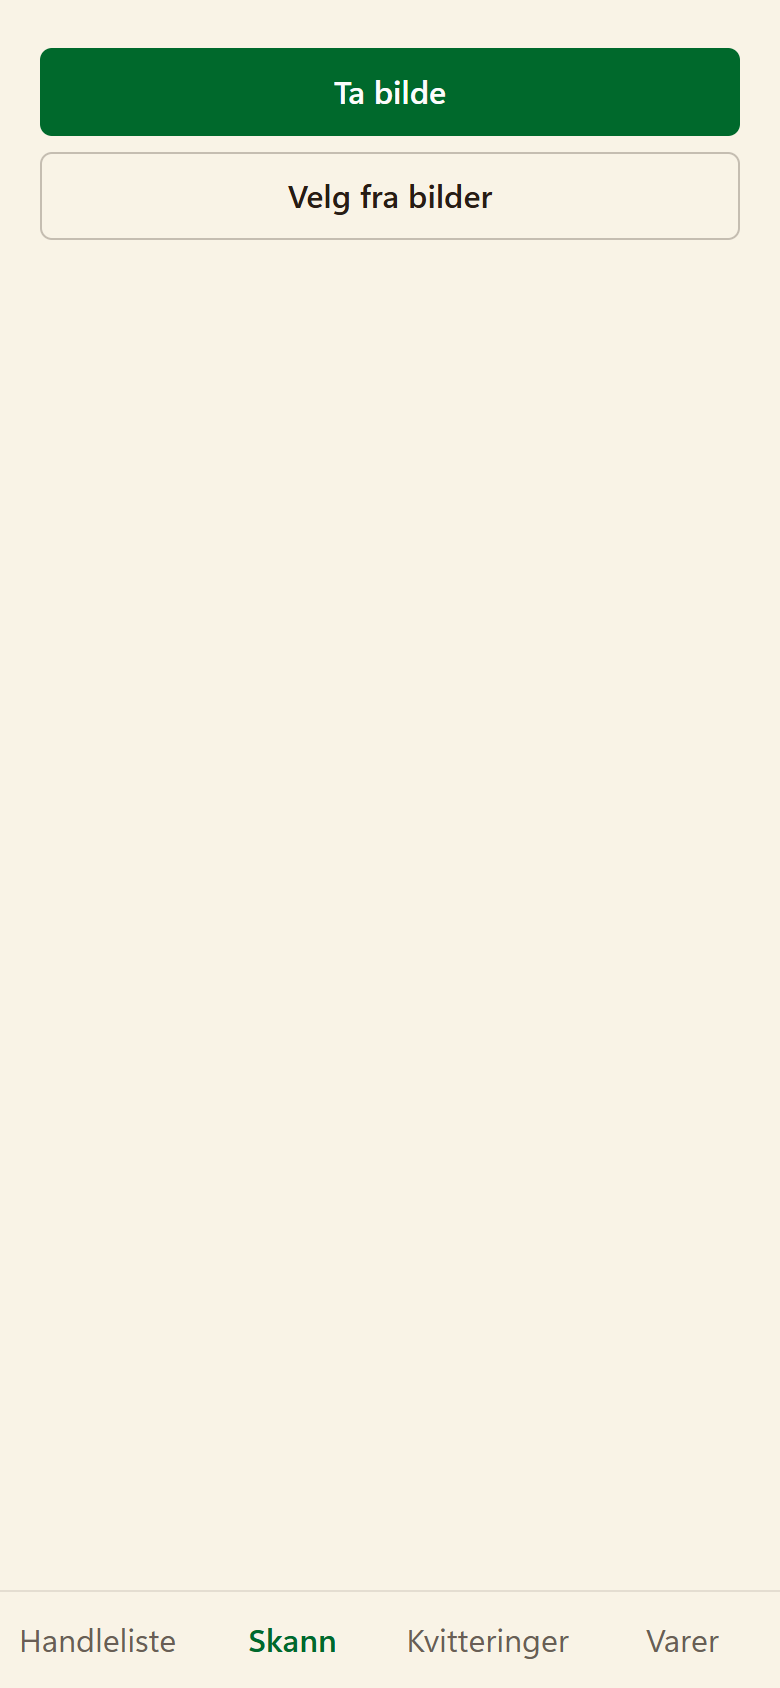
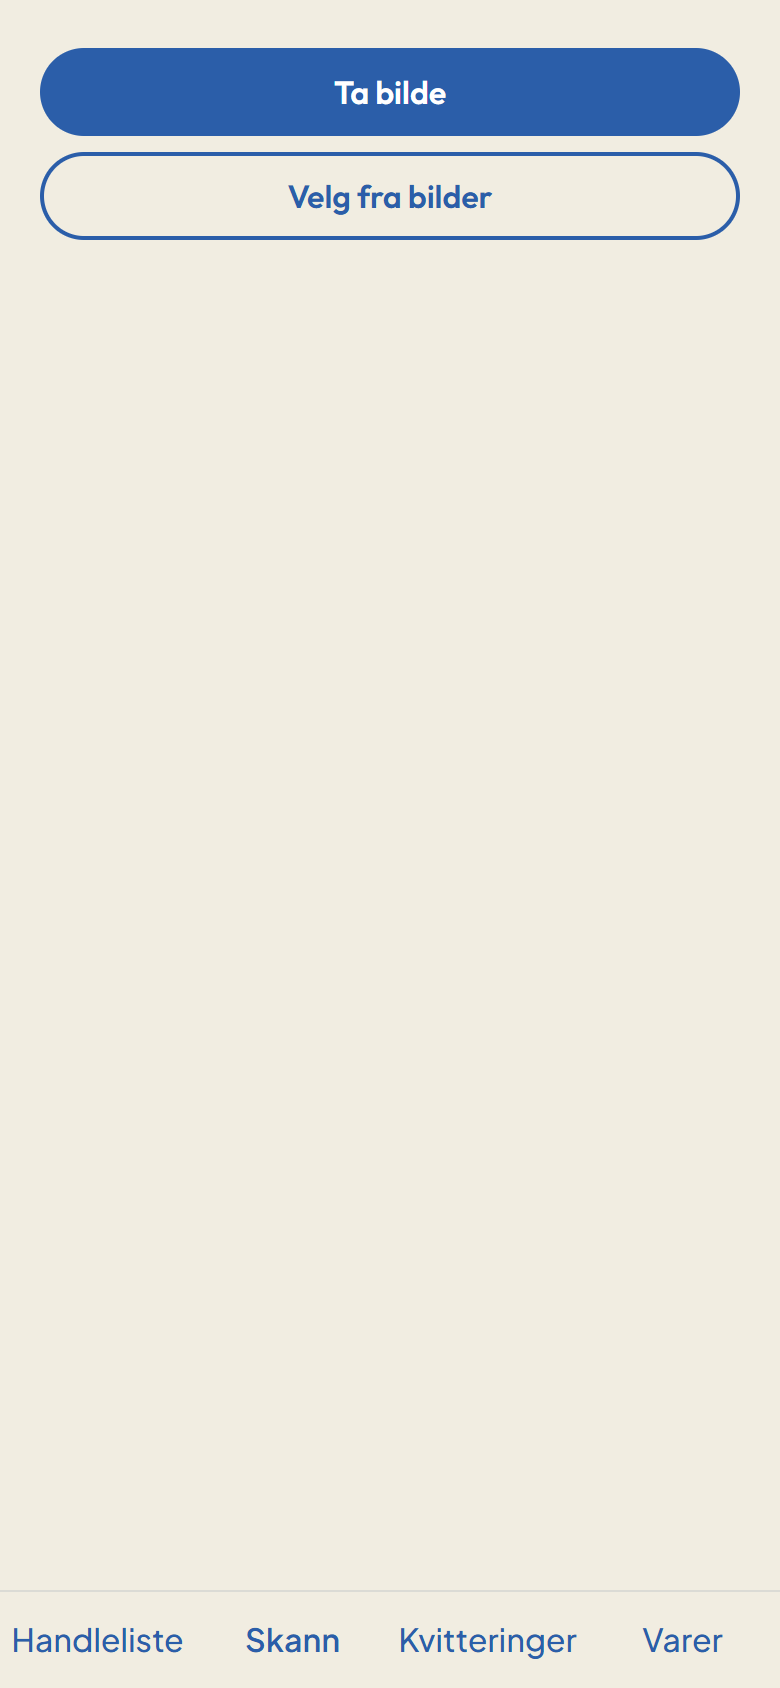
feat(client): brand palette and self-hosted type (ADR-0020)
Blue ink on a cream ground with one blush block and a brick red kept for
destructive actions, from the two brand sheets Ruben gave as direction.
Outfit for display and Plus Jakarta Sans for body, pinned through npm and
declared face by face so only the latin subset ships (59 kB total, no CDN).
Rounded faces were tried first and rejected as too Comic Sans.

Buttons become pills, receipt warnings become one blush block, and the
disclosure summaries keep their open/closed marker.

Claude-Session: https://claude.ai/code/session_017sKcnZKMqRn8yi4EAXy7qc

diff --git a/src/client/styles.css b/src/client/styles.css
@@ -1,15 +1,35 @@
 @import 'tailwindcss';
 
 /*
- * Design tokens. One type ratio, one ground colour, one accent; every size and colour in the
- * client comes from here (see .claude/skills/subtractive-design/SKILL.md).
+ * Self-hosted, latin subset only: the packages also ship Hebrew, Cyrillic and latin-ext, which
+ * this app never renders. Declaring the faces here instead of importing the package stylesheets
+ * keeps those files out of the build entirely (ADR-0020).
+ */
+@font-face {
+  font-family: 'Outfit Variable';
+  font-style: normal;
+  font-display: swap;
+  font-weight: 100 900;
+  src: url('@fontsource-variable/outfit/files/outfit-latin-wght-normal.woff2')
+    format('woff2-variations');
+}
+
+@font-face {
+  font-family: 'Jakarta Variable';
+  font-style: normal;
+  font-display: swap;
+  font-weight: 200 800;
+  src: url('@fontsource-variable/plus-jakarta-sans/files/plus-jakarta-sans-latin-wght-normal.woff2')
+    format('woff2-variations');
+}
+
+/*
+ * Design tokens. One type ratio, one ground, one accent; every size and colour in the client
+ * comes from here (ADR-0020, and .claude/skills/subtractive-design/SKILL.md).
  */
 @theme {
-  --font-sans:
-    'Segoe UI Variable Text', 'Segoe UI', -apple-system, BlinkMacSystemFont, system-ui, Roboto,
-    sans-serif;
-  --font-display:
-    'Iowan Old Style', 'Palatino Linotype', Palatino, 'Book Antiqua', Georgia, ui-serif, serif;
+  --font-sans: 'Jakarta Variable', 'Segoe UI', system-ui, sans-serif;
+  --font-display: 'Outfit Variable', 'Segoe UI', system-ui, sans-serif;
 
   /* Type scale: minor third (1.25) from a 16 px body. Three sizes in use: meta, body, display. */
   --text-meta: 0.8rem;
@@ -18,18 +38,20 @@
   --text-body--line-height: 1.5rem;
   --text-display: 2.441rem;
   --text-display--line-height: 1.05;
-  --text-display--letter-spacing: -0.015em;
+  --text-display--letter-spacing: -0.02em;
 
-  /* Palette: receipt paper, ink, one green accent. */
-  --color-paper: oklch(96.5% 0.018 85);
-  --color-field: oklch(99.4% 0.004 85);
-  --color-ink: oklch(24% 0.022 60);
-  --color-ink-muted: oklch(49% 0.02 60);
-  --color-ink-faint: oklch(78% 0.014 60);
-  --color-accent: oklch(45% 0.135 152);
-  --color-accent-ink: oklch(99% 0 0);
-  --color-danger: oklch(50% 0.19 28);
-  --color-warn: oklch(50% 0.12 65);
+  /* Palette: cream ground, blue ink and accent, blush for the blocks that need the eye, one
+   * brick red kept apart for destructive actions only. */
+  --color-paper: #f1ede1;
+  --color-field: #ffffff;
+  --color-ink: #1e3f72;
+  --color-ink-muted: #2b5ea9;
+  --color-ink-faint: #b9cbe4;
+  --color-shell: #b9cbe4;
+  --color-accent: #2b5ea9;
+  --color-accent-ink: #ffffff;
+  --color-blush: #eba9b5;
+  --color-danger: #ab3730;
 }
 
 @layer base {
@@ -38,12 +60,13 @@
     color: var(--color-ink);
     font-family: var(--font-sans);
     font-size: var(--text-body);
+    font-weight: 500;
     line-height: var(--text-body--line-height);
     -webkit-tap-highlight-color: transparent;
   }
 
   :focus-visible {
-    outline: 2px solid var(--color-accent);
+    outline: 3px solid var(--color-accent);
     outline-offset: 2px;
   }
 
@@ -64,41 +87,50 @@
 
   /* Type */
   .page-title {
-    @apply font-display text-display font-bold text-ink;
+    @apply font-display text-display text-accent font-semibold;
   }
   .eyebrow {
-    @apply text-meta font-semibold tracking-wide text-ink-muted uppercase;
+    @apply font-display text-meta text-ink-muted font-semibold tracking-widest uppercase;
   }
   .meta {
-    @apply text-meta text-ink-muted;
+    @apply text-meta text-ink-muted font-normal;
+  }
+  /* A summary stays `display: list-item` so the browser keeps drawing its open/closed marker;
+   * `flex` here would silently remove it. */
+  .disclosure {
+    @apply font-display text-accent min-h-11 cursor-pointer py-2 font-semibold;
   }
   .label {
-    @apply text-meta font-semibold text-ink;
+    @apply text-meta text-ink font-bold;
   }
   .link {
-    @apply text-accent underline decoration-accent/40 underline-offset-2;
+    @apply text-accent font-semibold underline decoration-2 underline-offset-2;
   }
   .chip {
-    @apply text-meta text-ink-muted whitespace-nowrap;
+    @apply text-meta text-ink-muted font-semibold whitespace-nowrap;
   }
   /* Inline separator, kept out of the text nodes so each value stays its own element. */
   .sep::before {
     content: '·';
     @apply mx-1.5;
   }
+  /* A flat block of colour, used where something genuinely needs the eye: receipt warnings. */
+  .note {
+    @apply bg-blush text-ink rounded-3xl px-4 py-3 font-semibold;
+  }
 
   /* Controls */
   .field {
-    @apply min-h-11 w-full rounded-md border border-ink-faint bg-field px-3 py-2 text-ink;
+    @apply border-shell bg-field text-ink min-h-11 w-full rounded-2xl border-2 px-4 py-2;
   }
   .btn {
-    @apply inline-flex min-h-11 items-center justify-center gap-2 rounded-md px-4 py-2 font-semibold disabled:opacity-50;
+    @apply font-display inline-flex min-h-11 items-center justify-center gap-2 rounded-full px-5 py-2 font-semibold disabled:opacity-50;
   }
   .btn-primary {
     @apply bg-accent text-accent-ink;
   }
   .btn-secondary {
-    @apply border border-ink/25 text-ink;
+    @apply border-accent text-accent border-2;
   }
   .btn-quiet {
     @apply text-ink-muted;
@@ -107,9 +139,9 @@
     @apply text-danger;
   }
   .option {
-    @apply min-h-11 w-full px-3 py-2 text-left hover:bg-ink/5 disabled:opacity-50;
+    @apply hover:bg-shell/40 min-h-11 w-full rounded-xl px-4 py-2 text-left disabled:opacity-50;
   }
   .popover {
-    @apply absolute z-10 mt-1 w-full rounded-md bg-field shadow-lg ring-1 ring-ink/10;
+    @apply bg-field ring-shell absolute z-10 mt-1 w-full rounded-2xl p-1 shadow-lg ring-2;
   }
 }

diff --git a/src/client/pages/ReceiptsPage.tsx b/src/client/pages/ReceiptsPage.tsx
@@ -205,9 +205,7 @@ function StatsAndHistory() {
 
   return (
     <details onToggle={(event) => setIsOpen(event.currentTarget.open)}>
-      <summary className="flex min-h-11 cursor-pointer items-center gap-2 font-semibold text-accent">
-        Statistikk og historikk
-      </summary>
+      <summary className="disclosure">Statistikk og historikk</summary>
       {isOpen && (
         <div className="flex flex-col gap-8 pt-4 pb-2">
           {stats.isPending && <p className="text-ink-muted">Laster …</p>}
@@ -247,7 +245,7 @@ function ReceiptRow({ receipt }: { receipt: ReceiptSummary }) {
         <span className="truncate">{storeNameLabel(receipt)}</span>
         <span className="meta">
           {dateLabel(receipt)}
-          {warningLabel !== null && <span className="sep text-warn">{warningLabel}</span>}
+          {warningLabel !== null && <span className="sep text-danger">{warningLabel}</span>}
         </span>
       </Link>
       <div className="flex flex-shrink-0 flex-col items-end">

diff --git a/src/client/pages/ReceiptPage.tsx b/src/client/pages/ReceiptPage.tsx
@@ -134,7 +134,7 @@ const WARNING_LABELS: Record<string, (receipt: ReceiptDetail) => string> = {
 
 function WarningChip({ code, receipt }: { code: string; receipt: ReceiptDetail }) {
   const label = WARNING_LABELS[code]?.(receipt) ?? code;
-  const chipClassName = 'text-warn';
+  const chipClassName = 'block';
 
   if (code === 'POSSIBLE_DUPLICATE' && receipt.possibleDuplicateOf !== null) {
     return (
@@ -316,7 +316,7 @@ function ReceiptHeader({ receipt }: { receipt: ReceiptDetail }) {
       )}
 
       {receipt.warnings.length > 0 && (
-        <div className="stack gap-0 pt-2">
+        <div className="note stack gap-1">
           {receipt.warnings.map((code) => (
             <WarningChip key={code} code={code} receipt={receipt} />
           ))}

diff --git a/src/client/components/ReceiptLineRow.tsx b/src/client/components/ReceiptLineRow.tsx
@@ -159,9 +159,9 @@ export default function ReceiptLineRow({ line, receiptId }: ReceiptLineRowProps)
   return (
     <div className="flex items-start gap-3 py-3">
       <div className={`stack flex-1 ${isItem ? '' : 'opacity-50'}`}>
-        <p className="meta">
-          <span>{line.rawText}</span>
-          <span className="sep">{formatQuantity(line.quantity, line.unit)}</span>
+        <p className="meta flex">
+          <span className="truncate">{line.rawText}</span>
+          <span className="sep flex-shrink-0">{formatQuantity(line.quantity, line.unit)}</span>
         </p>
         {line.kind === 'item' ? (
           <ProductPicker

diff --git a/src/client/pages/ProductsPage.tsx b/src/client/pages/ProductsPage.tsx
@@ -153,9 +153,7 @@ function GroupCandidatesSection({ allProducts }: { allProducts: Product[] }) {
 
   return (
     <details onToggle={(event) => setIsOpen(event.currentTarget.open)}>
-      <summary className="flex min-h-11 cursor-pointer items-center gap-2 font-semibold text-accent">
-        Kan være samme vare ({visible.length})
-      </summary>
+      <summary className="disclosure">Kan være samme vare ({visible.length})</summary>
       {isOpen && (
         <ul className="flex flex-col pt-2">
           {visible.map((candidate) => (

diff --git a/src/client/index.html b/src/client/index.html
@@ -4,7 +4,7 @@
     <meta charset="UTF-8" />
     <meta name="viewport" content="width=device-width, initial-scale=1.0, viewport-fit=cover" />
     <title>Kvitteringer</title>
-    <meta name="theme-color" content="#f5f1e8" />
+    <meta name="theme-color" content="#FFF8EF" />
     <link rel="manifest" href="/manifest.webmanifest" />
     <link rel="icon" href="/icons/icon-192.png" />
     <link rel="apple-touch-icon" href="/icons/apple-touch-icon.png" />

diff --git a/docs/adr/0020-subtractive-design-tokens.md b/docs/adr/0020-subtractive-design-tokens.md
@@ -7,31 +7,37 @@
 
 The client grew screen by screen, each task adding what it needed: a bordered card here, a pill badge there, a grey helper line, hand-picked Tailwind sizes (`text-xs`, `text-sm`, `text-lg`) and colours (`gray-600`, `blue-600`, `green-600`) per element.
 Together the additions buried the content the household came for, and the pages did not share a left edge, a type scale or a spacing rhythm.
-Ruben added the `subtractive-design` skill (`.claude/skills/subtractive-design/SKILL.md`) to the repository and asked for it to be applied.
+Ruben added the `subtractive-design` skill (`.claude/skills/subtractive-design/SKILL.md`) to the repository and asked for it to be applied, then gave two brand sheets as the visual direction: flat fields of colour, a confident geometric sans, blue ink on a warm cream ground with one soft accent.
 
 ## Decision
 
 - The skill is normative for every visual change to the client, alongside section 10 of the architecture.
   Its test — remove the element unless the message disappears or the user needs it — is applied while designing, not as a cleanup afterwards.
-- Every size and colour comes from the tokens in `src/client/styles.css` (`@theme`): one type ratio (1.25 from a 16 px body) with three sizes in use (`meta`, `body`, `display`), one ground (receipt paper), ink in three strengths, one green accent, one danger and one warning colour.
+- Every size and colour comes from the tokens in `src/client/styles.css` (`@theme`): one type ratio (1.25 from a 16 px body) with three sizes in use (`meta`, `body`, `display`), a cream ground (`#F1EDE1`), blue ink in three strengths (`#1E3F72`, `#2B5EA9`, `#B9CBE4`), blush (`#EBA9B5`) for the one block that needs the eye, and a brick red (`#AB3730`) kept apart for destructive actions only.
   Tailwind's default palette and size utilities are not used in the client.
+- Two self-hosted variable fonts, pinned through npm and declared face by face in `styles.css` so only the latin subset reaches the build: Outfit for display (titles, buttons, eyebrows) and Plus Jakarta Sans for body.
+  Rounded display faces were tried first and rejected as too close to Comic Sans.
 - Layout is one outer margin (`.page`: 20 px, one left axis, `max-w-2xl` centred) and two levels of vertical spacing (8 px within a group, 32 px between groups) on a 4 px base.
   Rows separate by rhythm, not by borders; a border or tint is not used to make something look important.
-- Recurring controls are component classes (`.btn`, `.field`, `.eyebrow`, `.meta`, `.chip`, `.link`, `.option`, `.popover`), so a change to a control is one edit.
+- Recurring controls are component classes (`.btn`, `.field`, `.eyebrow`, `.meta`, `.chip`, `.link`, `.option`, `.popover`, `.note`, `.disclosure`), so a change to a control is one edit.
 - Section 10 of the architecture still decides *what* a screen contains.
   Every element it names stays; this ADR decides how it looks.
   Removing a named element (a badge, a note, a chip) is a change to section 10 and a question for the foreman, not a licence the skill grants.
 
 ## Consequences
 
-- Page titles are set in a serif display face at 2.44× body, section labels as small uppercase eyebrows, everything else at body or meta size.
-- Status badges and kind chips render as small coloured text rather than pills; the warning chips on the receipt page render as lines of warning-coloured text.
+- Page titles are set in Outfit at 2.44× body in the accent blue, section labels as small uppercase eyebrows, everything else at body or meta size.
+- Buttons are pills: filled blue for the primary action, a two-pixel blue outline for the secondary, plain red text for a destructive one.
+- Status badges and kind chips render as small coloured text rather than pills, and the receipt warnings render as one blush block.
   Their content, names and links are unchanged.
-- The theme colour in `index.html` and the manifest follows the paper ground.
+- The theme colour in `index.html` and the manifest follows the cream ground.
+- Two font files ship, 32 kB and 27 kB, from the app's own origin; no external request and no CDN in the content security policy.
 - A later task that adds a screen uses the component classes and the tokens; a new size or colour is a change to this ADR.
 
 ## Alternatives considered
 
 - Keep per-element Tailwind classes and only tidy the worst offenders: rejected — the sizes and colours would keep drifting, one task at a time.
 - A component library (shadcn/ui, Radix themes): rejected — a household app with seven screens does not need one, and every library brings its own scale and palette.
-- A web font from Google Fonts: rejected — an external request on every load for a PWA that otherwise talks only to its own server; the system serif stack gives the display face enough character.
+- Fonts from the Google Fonts CDN: rejected — an external request on every load for a PWA that otherwise talks only to its own server, and a third party learning who opens the app.
+- A system font stack with no font files at all: rejected — it renders as a different app on each platform, and neither brand sheet survives the substitution.
+- Rounded display faces (Fredoka, Nunito) matching the brand sheets literally: rejected by Ruben on sight as too close to Comic Sans; Outfit keeps the geometric friendliness without the bubble.
